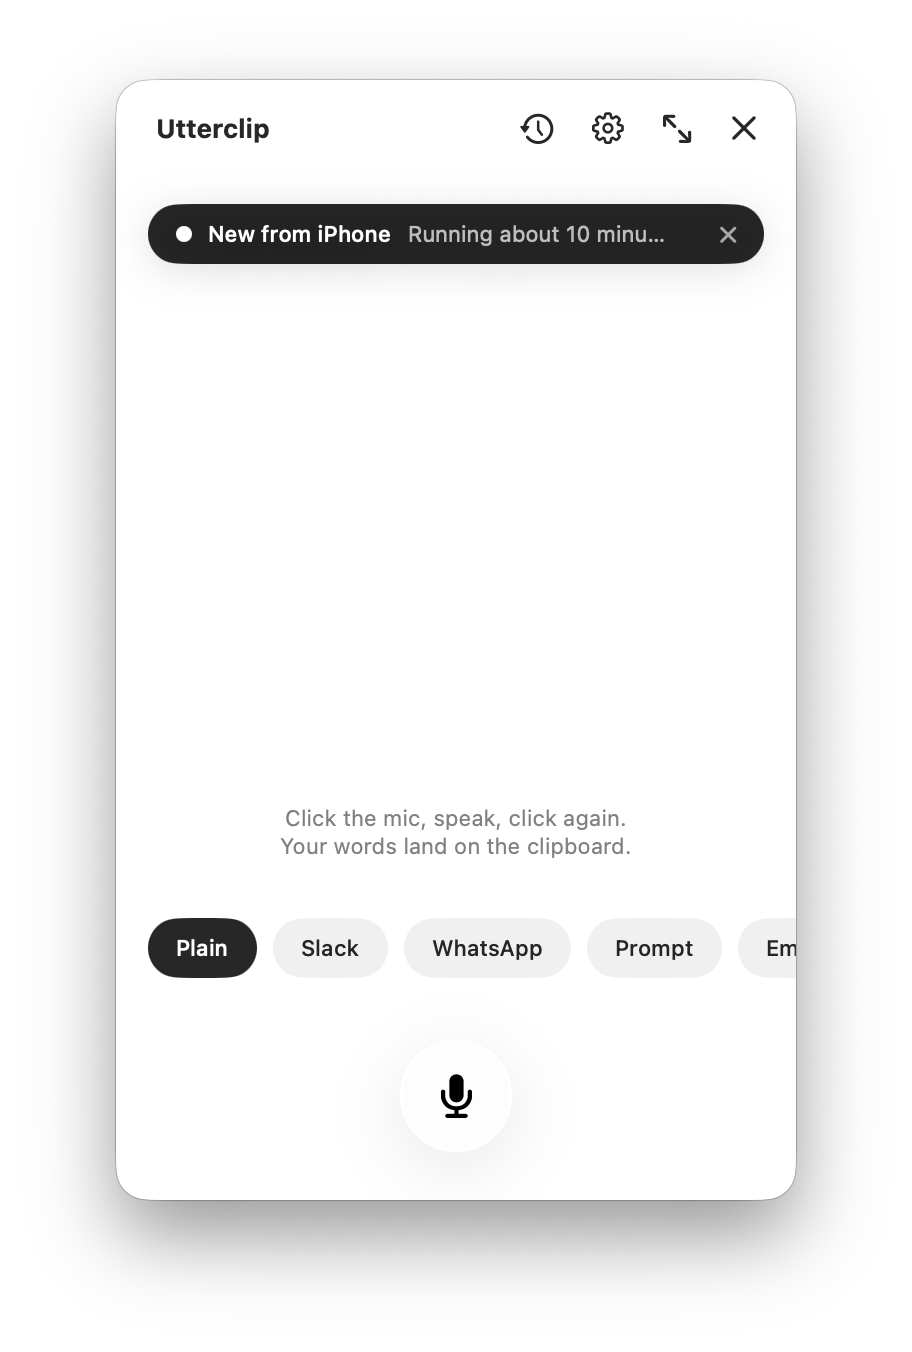
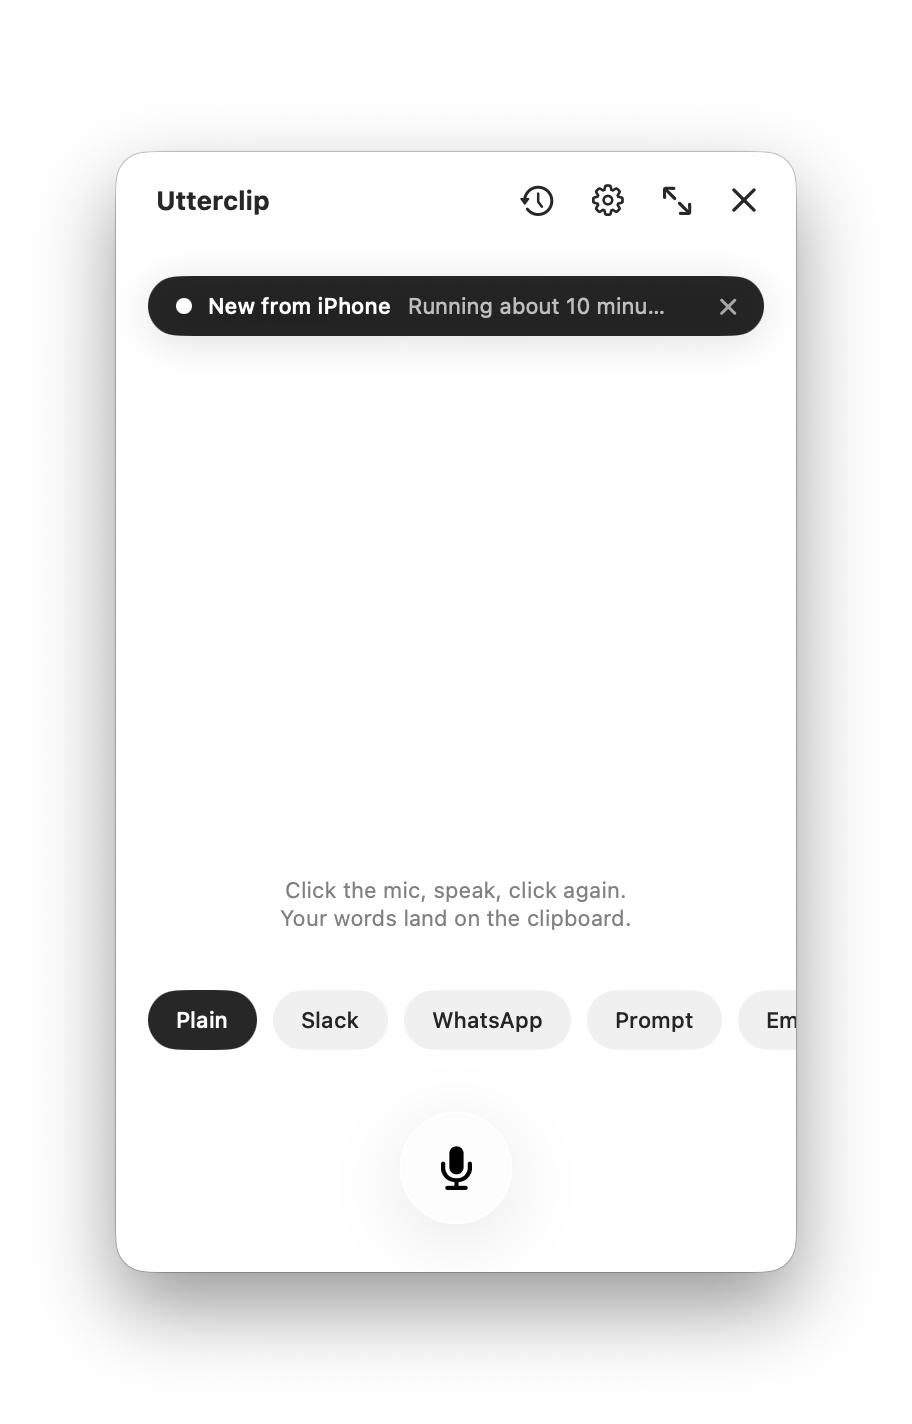
Give the Mac window more room, and line it up with the phone
In the pair at the top the Mac window sat a fifth smaller than the phone and
hung off its bottom edge, because images on a line sit on the baseline and the
Mac canvas is the shorter of the two. It is 1.2× bigger now — which, once the
transparent margins are taken off, makes the window and the phone the same
width on screen — and both are middle-aligned so they centre on each other.

The Mac canvases are padded symmetrically for it: macOS casts a window's shadow
downward, so the window sat above the middle of its own canvas and centring the
canvas would not have centred the window.

diff --git a/README.md b/README.md
@@ -29,9 +29,9 @@
 </p>
 
 <p align="center">
-  <img src="docs/screenshots/result.png" width="300" alt="iPhone: a spoken note about being late to standup, rewritten as a Slack message and already copied, with the raw transcript below and style pills to re-run it">
+  <img src="docs/screenshots/result.png" width="300" align="middle" alt="iPhone: a spoken note about being late to standup, rewritten as a Slack message and already copied, with the raw transcript below and style pills to re-run it">
   &nbsp;&nbsp;
-  <img src="docs/screenshots/mac-result.png" width="300" alt="Mac: the same dictation rewritten as a Slack message in the menu bar app's window, floating above other apps">
+  <img src="docs/screenshots/mac-result.png" width="360" align="middle" alt="Mac: the same dictation rewritten as a Slack message in the menu bar app's window, floating above other apps">
 </p>
 <p align="center"><sub>The same dictation on both. Left: iPhone. Right: the Mac app, one window that floats above whatever you write in.</sub></p>
 
